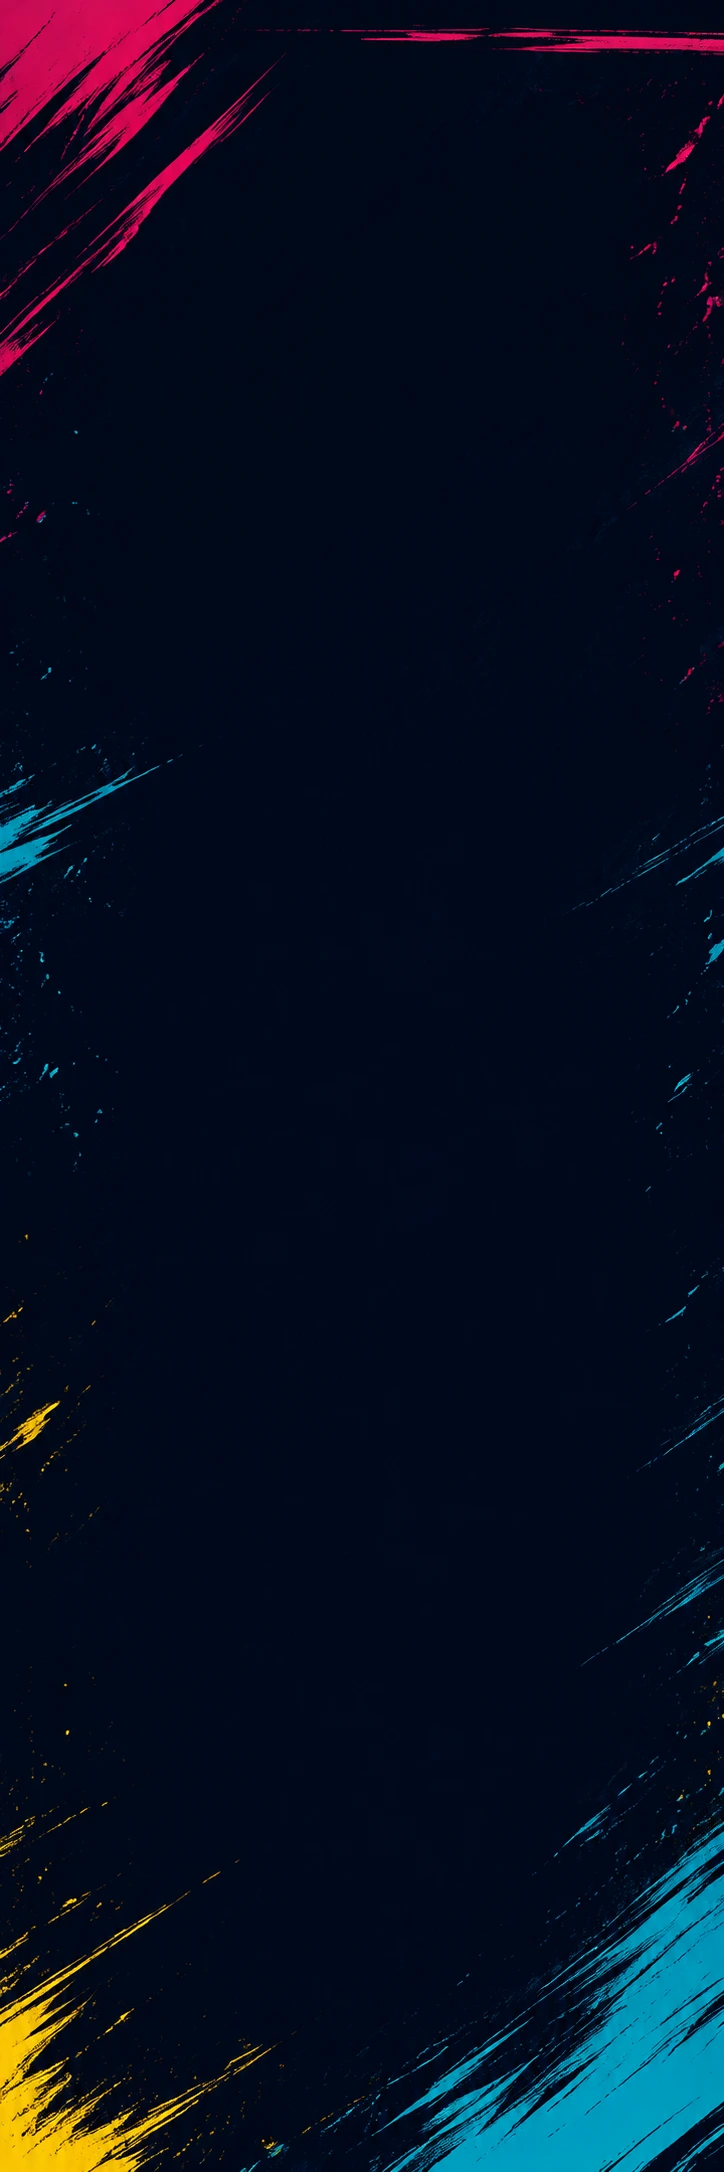
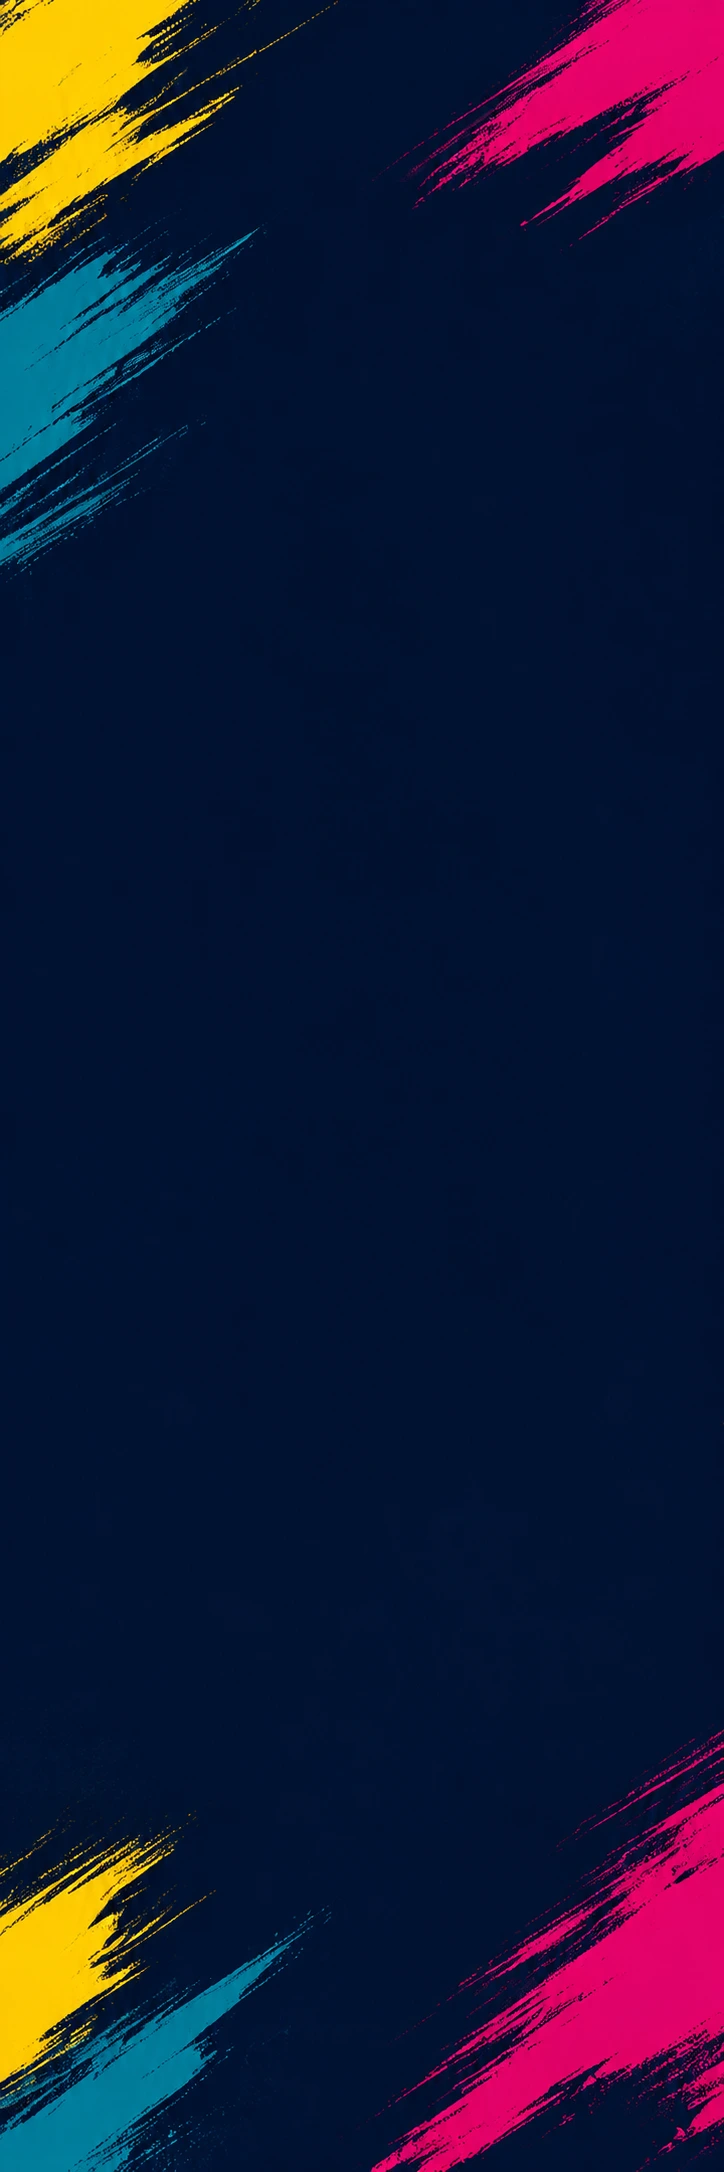
あ

diff --git a/src/App.css b/src/App.css
@@ -556,7 +556,8 @@ button:focus-visible {
 .scene-one > .story-background {
   display: block;
   background-position: top center;
-  background-size: cover;
+  background-repeat: no-repeat;
+  background-size: 100% auto;
 }
 
 .back-button {
@@ -674,9 +675,24 @@ button:focus-visible {
   object-fit: cover;
 }
 
+.video-box::before {
+  position: absolute;
+  inset: 0;
+  z-index: 1;
+  content: '';
+  background: #000;
+  opacity: 1;
+  pointer-events: none;
+  transition: opacity 0.18s ease;
+}
+
+.video-box[data-started='true']::before {
+  opacity: 0;
+}
+
 .play-mark {
   position: absolute;
-  z-index: 1;
+  z-index: 2;
   width: 320px;
   height: 320px;
   object-fit: contain;

diff --git a/src/App.tsx b/src/App.tsx
@@ -741,6 +741,7 @@ function SceneOne({
   onNext,
 }: SceneOneProps) {
   const videoRef = useRef<HTMLVideoElement>(null)
+  const [hasStartedVideo, setHasStartedVideo] = useState(false)
   const [isVideoPlaying, setIsVideoPlaying] = useState(false)
   const [videoDuration, setVideoDuration] = useState(0)
   const [videoProgress, setVideoProgress] = useState(0)
@@ -839,6 +840,7 @@ function SceneOne({
         <button
           className="video-box"
           data-playing={isVideoPlaying}
+          data-started={hasStartedVideo}
           type="button"
           aria-label={isVideoPlaying ? '動画を停止' : '動画を再生'}
           onClick={() => void toggleVideo()}
@@ -850,7 +852,10 @@ function SceneOne({
             playsInline
             onLoadedMetadata={syncVideoProgress}
             onTimeUpdate={syncVideoProgress}
-            onPlay={() => setIsVideoPlaying(true)}
+            onPlay={() => {
+              setHasStartedVideo(true)
+              setIsVideoPlaying(true)
+            }}
             onPause={() => setIsVideoPlaying(false)}
             onEnded={() => {
               syncVideoProgress()
@@ -947,7 +952,7 @@ function SceneTwoContent({ onNext }: SceneTwoProps) {
           <br />
           とにかく今は<strong>ゲームが続いている</strong>ようにみせよう。
           <br />
-          先程の「忘却の一撃」は1時間に1回しか打てないので、
+          先程の「忘却の一撃」は1時間に1回しか打てなくて
           <br />
           もう使えないんだ…。
         </p>